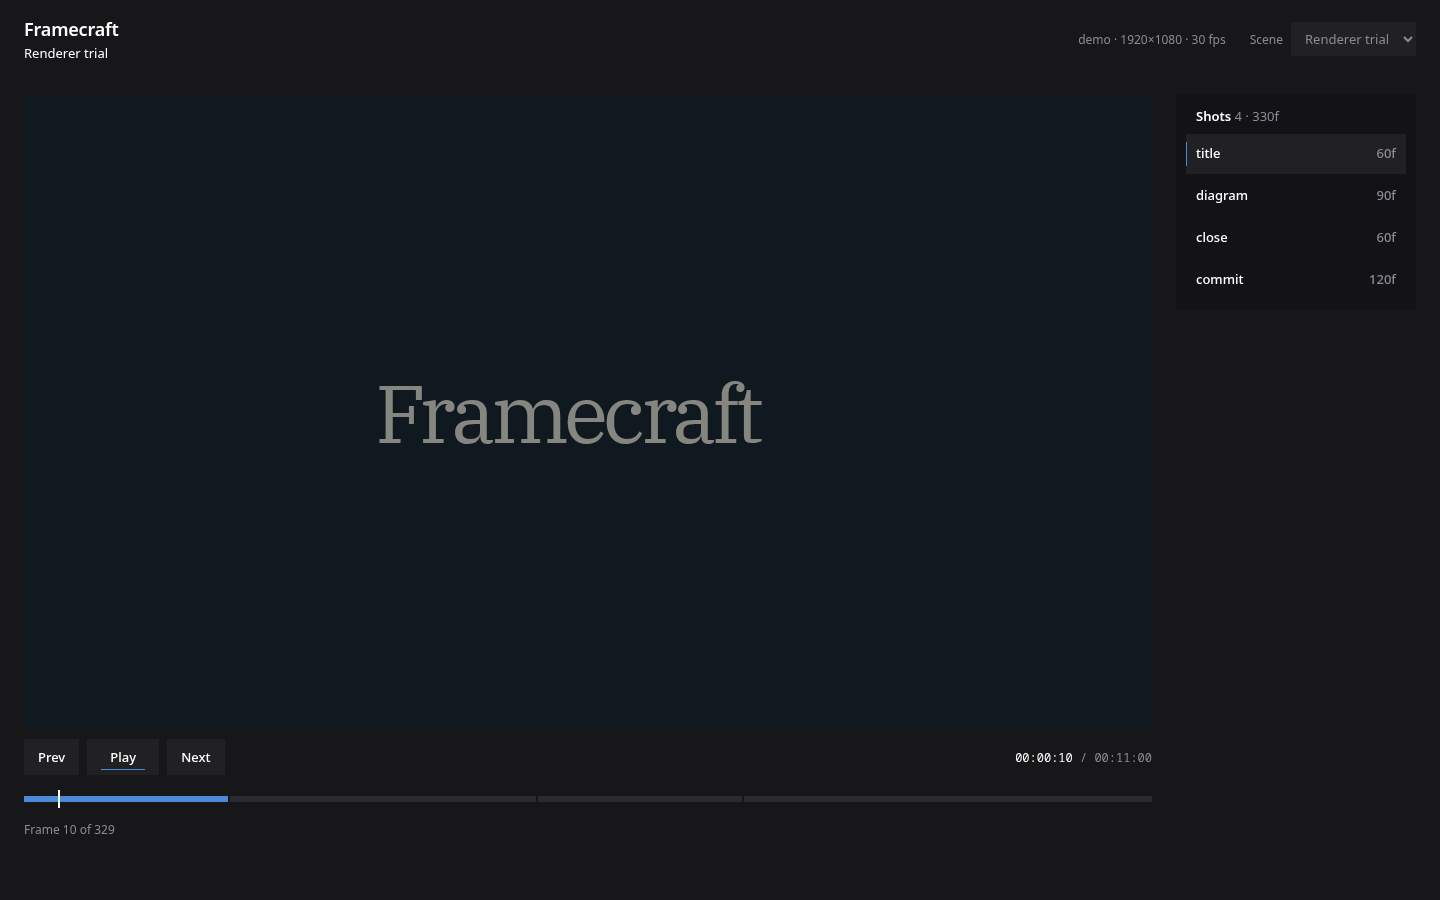
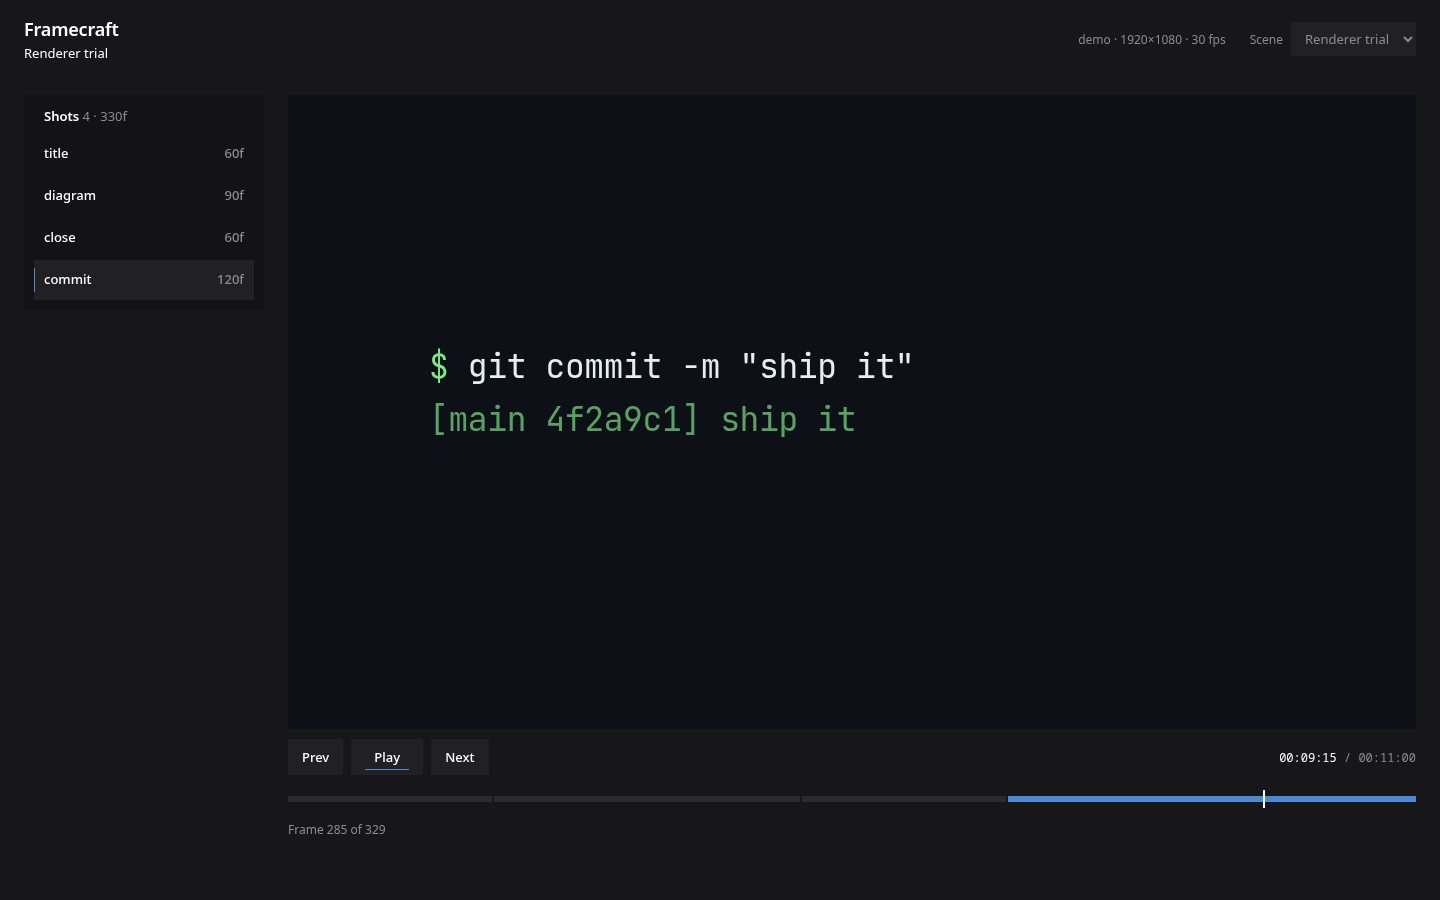
feat: finish local preview studio controls and verification

diff --git a/src/studio/Studio.tsx b/src/studio/Studio.tsx
@@ -21,11 +21,15 @@ export function Studio() {
   const [notice, setNotice] = useState('Loading preview…');
   const player = useRef<PlayerRef>(null);
   const pending = useRef<number | null>(0);
+  const confirmed = useRef<number | null>(null);
+  const frameRef = useRef(0);
   const scene = project?.scenes.find(candidate => candidate.id === sceneId);
 
   const openScene = useCallback((next: Scene, push: boolean) => {
     if (push) history.pushState(null, '', `?clip=${encodeURIComponent(next.id)}`);
     pending.current = 0;
+    confirmed.current = null;
+    frameRef.current = 0;
     setSceneId(next.id);
     setRouteError(undefined);
     setFrame(0);
@@ -37,6 +41,7 @@ export function Studio() {
   const seek = useCallback((target: number, gate = true) => {
     if (!scene) return;
     const bounded = Math.min(scene.durationFrames - 1, Math.max(0, Math.round(target)));
+    frameRef.current = bounded;
     setFrame(bounded);
     if (gate) {
       pending.current = bounded;
@@ -99,7 +104,11 @@ export function Studio() {
   useEffect(() => {
     const instance = player.current;
     if (!instance || !scene) return;
-    const onFrame = ({detail}: {detail: {frame: number}}) => setFrame(detail.frame);
+    const onFrame = ({detail}: {detail: {frame: number}}) => {
+      if (pending.current !== null) return;
+      frameRef.current = detail.frame;
+      setFrame(detail.frame);
+    };
     const onPlay = () => {
       setPlaying(true);
       if (pending.current === null) setStatus('ready');
@@ -108,6 +117,7 @@ export function Studio() {
     const onEnded = () => {
       setPlaying(false);
       if (pending.current !== null) return;
+      frameRef.current = scene.durationFrames - 1;
       setFrame(scene.durationFrames - 1);
       setStatus('ready');
     };
@@ -144,12 +154,14 @@ export function Studio() {
         setNotice(String(event.data.message));
         return;
       }
-      if (event.data.type !== 'rendered' || pending.current === null) return;
-      const target = pending.current;
-      const shot = activeShot(scene.shots, target);
-      if (!shot || event.data.frame !== target - shot.startFrame) return;
-      if (!new URL(iframe.src).pathname.endsWith(`/${shot.entry}`)) return;
+      if (event.data.type !== 'rendered') return;
+      const shot = scene.shots.find(candidate => new URL(iframe.src).pathname.endsWith(`/${candidate.entry}`));
+      if (!shot || !Number.isSafeInteger(event.data.frame) || event.data.frame < 0 || event.data.frame >= shot.durationFrames) return;
+      const target = shot.startFrame + event.data.frame;
+      confirmed.current = target;
+      if (pending.current !== target) return;
       pending.current = null;
+      frameRef.current = target;
       setFrame(target);
       setStatus('ready');
     };
@@ -163,12 +175,19 @@ export function Studio() {
     if (playing) {
       instance.pause();
       setPlaying(false);
-      seek(instance.getCurrentFrame());
+      const current = instance.getCurrentFrame();
+      if (confirmed.current === current) {
+        pending.current = null;
+        frameRef.current = current;
+        setFrame(current);
+        setStatus('ready');
+      } else seek(current);
       return;
     }
     if (frame >= scene.durationFrames - 1) {
       pending.current = null;
       setStatus('ready');
+      frameRef.current = 0;
       setFrame(0);
       instance.seekTo(0);
     }
@@ -180,7 +199,7 @@ export function Studio() {
   const step = (delta: number) => {
     player.current?.pause();
     setPlaying(false);
-    seek(frame + delta);
+    seek(frameRef.current + delta);
   };
 
   const jump = (shot: Shot) => {
@@ -188,6 +207,23 @@ export function Studio() {
     setPlaying(false);
     seek(shot.startFrame);
   };
+
+  useEffect(() => {
+    if (!scene || routeError) return;
+    const onKeyDown = (event: KeyboardEvent) => {
+      if (event.defaultPrevented || event.altKey || event.ctrlKey || event.metaKey ||
+        (event.target instanceof Element && event.target.closest('button, input, select, textarea, [contenteditable]'))) return;
+      if (event.code === 'Space' && !event.repeat) {
+        event.preventDefault();
+        toggle();
+      } else if (event.code === 'ArrowLeft' || event.code === 'ArrowRight') {
+        event.preventDefault();
+        step(event.code === 'ArrowRight' ? 1 : -1);
+      }
+    };
+    addEventListener('keydown', onKeyDown);
+    return () => removeEventListener('keydown', onKeyDown);
+  });
 
   if (loadError) {
     return <main className="studio-message">
@@ -233,6 +269,18 @@ export function Studio() {
       </div>
     </section> : scene && <>
       <div className="workspace">
+        <aside className="shots" aria-label="Shots">
+          <h2>Shots <span className="muted">{scene.shots.length} · {scene.durationFrames}f</span></h2>
+          <ol>
+            {scene.shots.map(shot => <li key={shot.id}>
+              <button type="button" data-active={shot.id === active?.id} aria-current={shot.id === active?.id ? 'true' : undefined}
+                onClick={() => jump(shot)}>
+                <span>{shot.id}</span>
+                <span className="muted">{shot.durationFrames}f</span>
+              </button>
+            </li>)}
+          </ol>
+        </aside>
         <section className="preview" aria-label="Preview">
           <div className="stage" id="stage" data-state={status} data-scene={scene.id} data-frame={frame} data-shot={active?.id ?? ''}>
             <Player
@@ -278,19 +326,6 @@ export function Studio() {
             <p className="frame-count">Frame {frame} of {scene.durationFrames - 1}</p>
           </div>
         </section>
-
-        <aside className="shots" aria-label="Shots">
-          <h2>Shots <span className="muted">{scene.shots.length} · {scene.durationFrames}f</span></h2>
-          <ol>
-            {scene.shots.map(shot => <li key={shot.id}>
-              <button type="button" data-active={shot.id === active?.id} aria-current={shot.id === active?.id ? 'true' : undefined}
-                onClick={() => jump(shot)}>
-                <span>{shot.id}</span>
-                <span className="muted">{shot.durationFrames}f</span>
-              </button>
-            </li>)}
-          </ol>
-        </aside>
       </div>
     </>}
   </main>;

diff --git a/tests/studio-browser.test.ts b/tests/studio-browser.test.ts
@@ -125,6 +125,42 @@ test('rapid seeks settle on the newest frame only', async () => {
   }
 }, 120000);
 
+test('keyboard shortcuts step from the newest frame and leave focused controls alone', async () => {
+  const {page, errors} = await open('/?clip=intro');
+  try {
+    await ready(page, 0);
+    await page.locator('body').click({position: {x: 4, y: 4}});
+    await page.keyboard.press('ArrowRight');
+    await ready(page, 1);
+    await page.keyboard.press('ArrowLeft');
+    await ready(page, 0);
+    await page.keyboard.press('Space');
+    await page.getByRole('button', {name: 'Pause'}).waitFor();
+    await page.keyboard.press('Space');
+    await page.getByRole('button', {name: 'Play'}).waitFor();
+    await page.waitForFunction(() => document.querySelector('#stage')?.getAttribute('data-state') === 'ready', undefined, {timeout: 20000});
+    const paused = Number(await stage(page).getAttribute('data-frame'));
+    await page.waitForTimeout(250);
+    expect(Number(await stage(page).getAttribute('data-frame'))).toBe(paused);
+
+    const range = page.getByRole('slider', {name: 'Timeline frame'});
+    await range.focus();
+    await page.keyboard.press('ArrowRight');
+    await ready(page, paused + 1);
+    await page.getByRole('button', {name: 'Next frame'}).focus();
+    await page.keyboard.press('Space');
+    await ready(page, paused + 2);
+    await page.locator('body').click({position: {x: 4, y: 4}});
+    await page.keyboard.press('ArrowRight');
+    await page.keyboard.press('ArrowRight');
+    await page.keyboard.press('ArrowRight');
+    await ready(page, paused + 5);
+    expect(errors).toEqual([]);
+  } finally {
+    await page.close();
+  }
+}, 120000);
+
 test('plays, pauses without drift, and stops at the last frame', async () => {
   const {page, errors} = await open('/?clip=intro');
   try {
@@ -212,6 +248,39 @@ test('shows loading, empty, error, and runtime failure states', async () => {
     await page.locator('input[type=range]').fill('60');
     await page.getByRole('alert').getByText(/Shot exploded/).waitFor({timeout: 30000});
     expect(await stage(page).getAttribute('data-state')).toBe('error');
+  } finally {
+    await page.close();
+  }
+}, 120000);
+
+test('reports a missing image asset instead of displaying an acknowledged frame', async () => {
+  const {page} = await open('/?clip=intro');
+  try {
+    await ready(page, 0);
+    await page.route('**/public/scenes/intro/shots/02-diagram/index.html', route => route.fulfill({
+      contentType: 'text/html',
+      body: '<!doctype html><img src="/public/missing-preview-image.png"><script src="/public/runtime.js"></script><script>framecraft.shot({renderFrame() {}});</script>',
+    }));
+    await page.getByRole('slider', {name: 'Timeline frame'}).fill('60');
+    await page.getByRole('alert').getByText(/image|decode|missing/i).waitFor({timeout: 30000});
+    expect(await stage(page).getAttribute('data-state')).toBe('error');
+    expect(await page.locator('iframe').count()).toBe(1);
+  } finally {
+    await page.close();
+  }
+}, 120000);
+
+test('keeps the active shot and controls in view on a phone', async () => {
+  const {page} = await open('/?clip=intro');
+  try {
+    await page.setViewportSize({width: 390, height: 844});
+    await ready(page, 0);
+    await seek(page, 285);
+    const active = await page.locator('.shots button[data-active="true"]').boundingBox();
+    expect(active).not.toBeNull();
+    expect(active!.x + active!.width).toBeLessThanOrEqual(390);
+    expect(await page.evaluate(() => document.documentElement.scrollWidth)).toBe(390);
+    expect(await page.getByRole('button', {name: 'Play'}).isVisible()).toBe(true);
   } finally {
     await page.close();
   }

diff --git a/src/studio/studio.css b/src/studio/studio.css
@@ -74,7 +74,7 @@ select {
 
 .workspace {
   display: grid;
-  grid-template-columns: minmax(0, 1fr) 240px;
+  grid-template-columns: 240px minmax(0, 1fr);
   gap: 24px;
   align-items: start;
 }
@@ -182,8 +182,8 @@ select {
 
 @media (max-width: 900px) {
   .workspace { grid-template-columns: minmax(0, 1fr); }
-  .shots ol { display: grid; grid-template-columns: repeat(2, minmax(0, 1fr)); gap: 2px; }
-  .shots li { min-width: 0; }
+  .shots ol { flex-direction: row; overflow-x: auto; }
+  .shots li { flex: 0 0 132px; }
 }
 
 @media (max-width: 560px) {
@@ -195,6 +195,8 @@ select {
   select { min-height: 44px; width: 100%; }
   .transport button { min-height: 44px; }
   .timecode { margin-left: 0; width: 100%; }
-  .shots ol { grid-template-columns: 1fr; }
+  .shots ol { display: grid; grid-template-columns: repeat(2, minmax(0, 1fr)); overflow: visible; }
+  .shots li { min-width: 0; }
+  .shots button span:first-child { overflow: hidden; text-overflow: ellipsis; }
   .shots button { min-height: 44px; }
 }

diff --git a/docs/studio.md b/docs/studio.md
@@ -11,25 +11,25 @@ Open the printed `http://127.0.0.1:3000/` URL. Set `PORT` to change the port (`P
 ## Controls
 
 - **Scene** selects a scene from `projects/demo/project.json`. The URL carries the choice as `?clip=<scene-id>`, so a reload or a shared link reopens the same scene. An unknown ID shows an error with buttons for the scenes that exist.
-- **Shots** lists the validated shots in order with their frame counts. Clicking one seeks to its first frame.
+- **Shots** lists the validated shots on the left in order with their frame counts. Clicking one seeks to its first frame. On tablets the list scrolls horizontally above the preview; on phones it uses two columns.
 - **Prev / Next** step exactly one frame and pause.
 - **Play / Pause** runs the Player's own clock. Playback stops on the last frame and does not loop; pressing Play there restarts from frame 0.
 - **Timeline** is a frame range from 0 to the last frame. The filled span marks the current shot; the line marks the playhead.
 - The timecode reads `mm:ss:ff` where the last pair is frames at the scene's fps. The frame counter shows `Frame N of last`.
 
-Keyboard: Tab moves through the scene picker, timeline, transport and shot buttons; Space or Enter activates the focused button. The timeline range responds to the arrow keys.
+Keyboard: Tab moves through the scene picker, shot buttons, transport and timeline. When focus is not on a control, Space plays or pauses and Left / Right steps one frame (pausing playback). Space or Enter activates a focused button; the focused timeline range responds to its own arrow keys. Shortcuts do not override focused form controls.
 
 ## Frame accuracy
 
 The Studio mounts the same `SceneComposition` as the Remotion export inside `@remotion/player`. Seeking is delegated to the deterministic shot runtime: `ShotView` posts a frame to the shot iframe, and the runtime settles fonts, images and animations before it acknowledges. Studio marks a requested frame ready only when the acknowledgement for that shot-local frame arrives from the mounted iframe, so a fast or reversed seek never leaves an older frame labelled as current. While a seek is pending, the preview shows a loading overlay rather than a stale frame.
 
-Playback advances through the Player's frame updates; the acknowledgement gate applies to manual seeks. Switching scenes unmounts the Player and its iframe, drops pending acknowledgements and resets frame, playback and error state. A shot that throws or fails to load shows the runtime's error message with a retry.
+Playback advances through the Player's frame updates; the acknowledgement gate applies to manual seeks and paused frames that have not settled yet. Switching scenes unmounts the Player and its iframe, drops pending acknowledgements and resets frame, playback and error state. A shot that throws, fails to load, or references an image that cannot decode shows an error with a retry.
 
 ## Interface notes
 
 The Studio is an app screen, not a marketing page: the preview is the focal point and the chrome stays quiet. It uses the already bundled IBM Plex Sans for interface text and JetBrains Mono only for the timecode and frame readouts, so the workspace and its output share one type system without remote assets. The fixed dark theme is deliberate for judging video colour.
 
-The `data-terminal` direction's accent is a single 1px selection line: active shot, active timeline span, and the Play control. Numbers and labels stay white or grey; no status is carried by colour alone. Design-taste's inspector passes at 1440, 768 and 390 with `font-not-dealt` allowed, because the project's local licensed fonts replace the dealt Public Sans by design. Two lint warnings remain and are intentional: zero-padded timecode is a clock, and the monospace is confined to that clock.
+The `data-terminal` direction's accent is a single 1px selection line: active shot, active timeline span, and the Play control. Numbers and labels stay white or grey; no status is carried by colour alone. Design-taste's inspector passes at 1440, 768 and 390 with `font-not-dealt` allowed, because the project's local licensed fonts replace the dealt Public Sans by design. Its one lint warning is intentional: monospace is confined to clock and frame readouts.
 
 ## Scope and limits
 
@@ -48,4 +48,4 @@ bun run validate
 bun run render
 ```
 
-Representative screenshots are in `docs/screenshots/`.
+Representative screenshots are in `docs/screenshots/`. The Phase 1 verification results are in [studio-phase1-report.md](studio-phase1-report.md).

diff --git a/docs/studio-phase1-report.md b/docs/studio-phase1-report.md
@@ -1,0 +1,17 @@
+# Preview Studio — Phase 1 verification
+
+The local Studio opens `?clip=intro` and previews the four independently loaded demo shots (60 + 90 + 60 + 120 = 330 frames). It keeps the existing Remotion Player and shot runtime; no export or authoring protocol changed. The ordered shot list is left of the preview on desktop, horizontal on tablets, and two columns on phones. Space toggles playback and Left / Right step by one frame when focus is not on a control.
+
+## Checks run
+
+- `bun test`: 37 pass, 0 fail. Browser tests cover shot boundaries, repeated/reverse and rapid seeks, quick keyboard stepping, native control keys, playback/pause/end, direct/invalid `?clip=` routing, scene switching, loading/error/empty states, thrown shot errors, missing-image decode failures, and phone-width shot visibility. Server test covers manifest/asset serving, traversal rejection, and temporary-bundle removal after shutdown.
+- `bun run typecheck` and `bun run validate`: pass; validation reports title 60, diagram 90, close 60, commit 120.
+- `bun run studio`: bundled and served locally at `127.0.0.1:3000`. Browser inspection confirmed frame 285 of the commit shot ready on desktop, tablet and phone; at 390px the document width remained 390px with the active shot visible and no browser page errors.
+- `bun run render`: `output/intro.mp4` produced for 330 frames. Remotion's `getVideoMetadata` reported H.264, 1920×1080, 30 fps and 11 seconds (330 frames at 30 fps). `ffprobe` was not installed, so frame count is the renderer's reported count rather than an independently probed container frame count.
+- Design-taste app inspector: 0 FAIL, 0 WARN at 1440, 768 and 390, allowing `font-not-dealt` for bundled local fonts. Lint: 0 FAIL, 1 intentional monospace warning for clock/frame readouts.
+
+Screenshots captured after frame acknowledgement and inspected: [desktop](screenshots/studio-desktop.png), [tablet](screenshots/studio-tablet.png), [phone](screenshots/studio-phone.png). The phone screenshot was recaptured after fixing the initially hidden active shot.
+
+## Limits
+
+The Studio is a local read-only preview, not an editor or renderer. No second-machine pixel comparison, audio, transitions or live-video synchronization was tested. Studio rebuilding happens on server restart; a forced process kill can leave its temporary bundle, while ordinary shutdown removes it.
